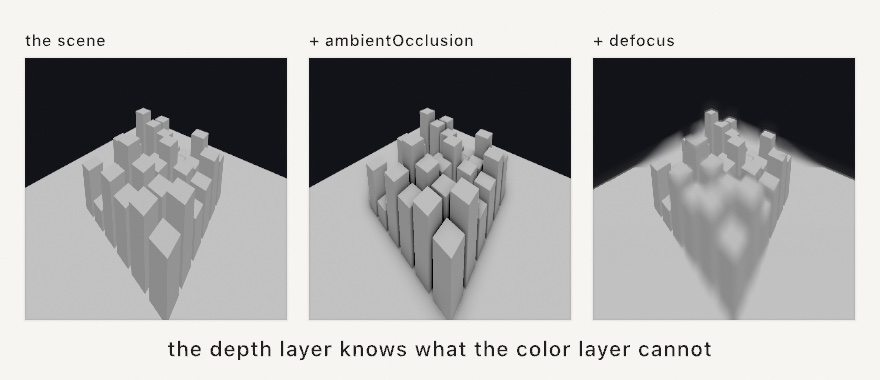
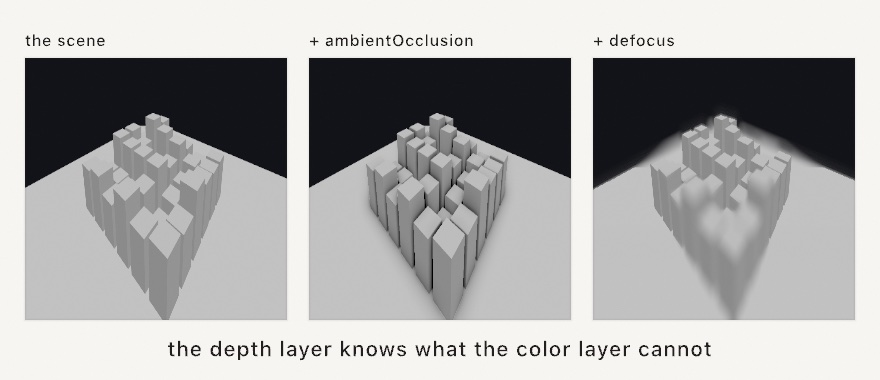
Guide: pin the seed in the depth-effects figure, and write the rule down
The final full gate came back clean but with one unexpected diff: the
Chapter 17 depth-effects figure had re-rendered differently. Its block
heights come from noise() and it never seeded, so it was picking up a
fresh variation on every run. Two renders are now byte-identical.

This is a trap worth stating rather than rediscovering, so AUTHORING.md
gains the rule: any figure that touches random or noise pins its seed, and
the check is to render twice and compare. The two GPU-sim figures stay the
documented exception.

Claude-Session: https://claude.ai/code/session_01NKQXXbu4XyUvUuRH3G5JCm

Changed region(s): [[0.4295, 0.2895, 0.583, 0.6368], [0.092, 0.2895, 0.2455, 0.6368], [0.7364, 0.2895, 0.8898, 0.6368]]

diff --git a/Guide/Figures/17-3DGently/DepthEffects.swift b/Guide/Figures/17-3DGently/DepthEffects.swift
@@ -45,6 +45,9 @@ final class DepthEffects: Sketch {
     /// A packed field of blocks: gaps for occlusion to settle into, and a long
     /// run into the distance for the focus to fall off along.
     func blocks() {
+        // The block heights come from noise, so the seed has to be pinned or
+        // the figure re-renders differently every run.
+        noiseSeed(4)
         background(Color(hex: 0x121318))
         camera(.orbiting(target: Vector3(0, 0.4, 0), radius: 9, azimuth: 0.7,
                          elevation: 0.42, fieldOfView: .pi / 4, near: 3, far: 18))

diff --git a/Guide/AUTHORING.md b/Guide/AUTHORING.md
@@ -63,6 +63,7 @@ Keep chapters honest about hardware: anything needing a device beyond the Mac (a
 Figure sketches live in `Figures/<NN-ChapterName>/<FigureName>.swift`, rendered to `Images/<NN-ChapterName>/<FigureName>.jpg` (or `.png`/`.gif`) by the runner. Conventions:
 
 - A figure file is an ordinary Ollin sketch (a `class ... : Sketch`), self-contained, with no dependencies beyond the framework.
+- **Pin the seed in any figure that touches `random` or `noise`.** A sketch's `variation` is rolled fresh at launch, so an unseeded figure re-renders differently every run and shows up as churn in `git status` after each full gate. Call `seed(_:)` (or `noiseSeed(_:)`) in the figure. The check is to render twice and `cmp` the output. The two exceptions are `16-Simulations/ArtificialLife` and `FluidAndBlobs`, whose GPU sims are genuinely not reproducible; restore those rather than committing them.
 - The first line may carry a directive comment configuring the render:
   - `// figure: frame=120` renders that frame as a still (default: `frame=0`).
   - `// figure: gif duration=3 fps=30` renders an animated GIF loop.
